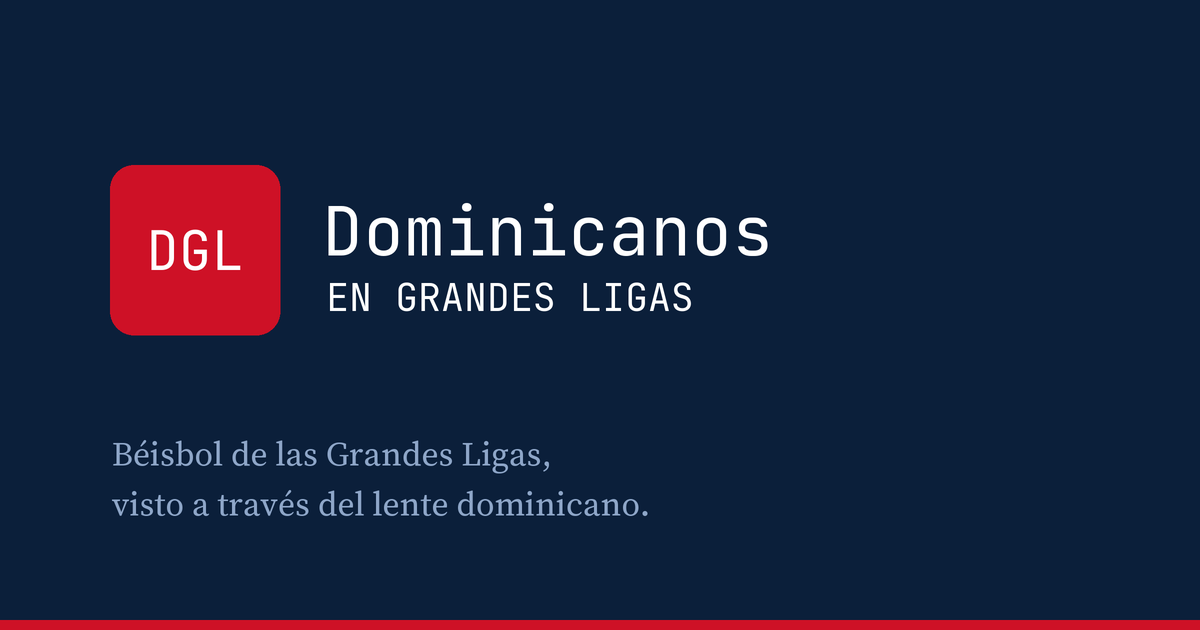
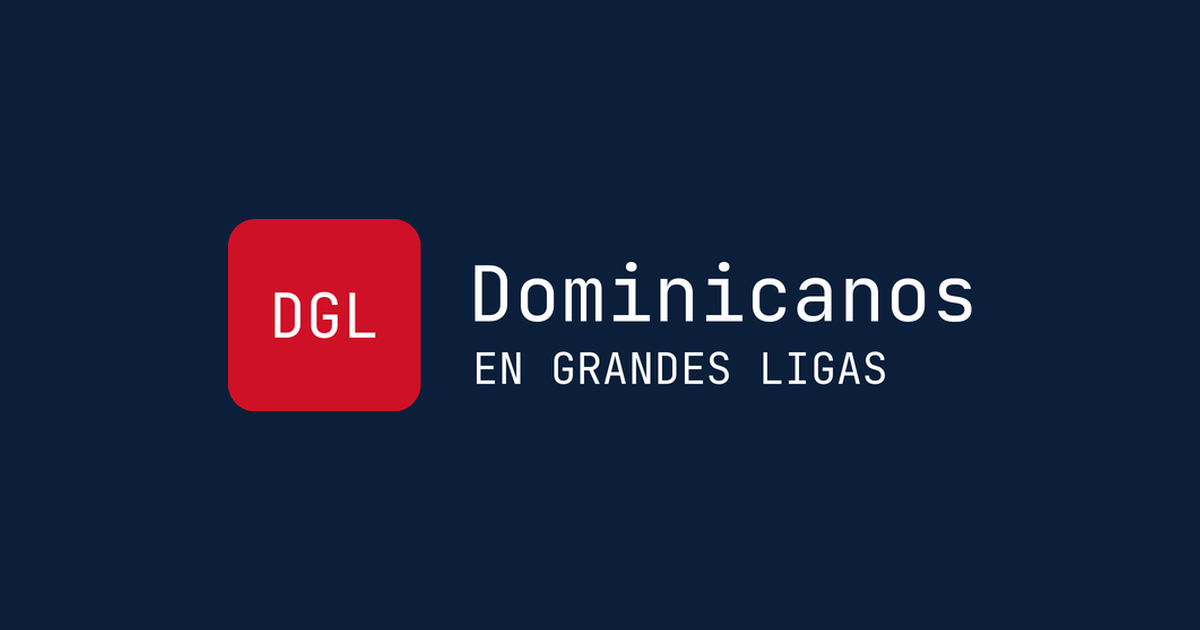
fix(og): la lámina de compartir se queda solo con el logotipo
Al pegar un enlace en Telegram, la lámina salía recargada: el logotipo, la
bajada del sitio en dos líneas y una barra roja al pie. El dueño la vio en
el previsualizador y tenía razón — la lámina se ve a un tercio de su tamaño
dentro de una tarjeta que YA repite el título, la descripción y el dominio
en texto, así que todo lo que ella escriba compite con eso o lo duplica.

Con el logotipo solo, la tarjeta reparte el trabajo: la imagen dice de quién
es y el texto de al lado dice qué es. Es la misma lógica de las bandas de
las tarjetas de artículo: lo que se repite en cada pieza es fondo, no
cartel.

SE RECORTA, NO SE REDIBUJA. Las fuentes del sitio están vendorizadas en
woff2 y Pillow no las lee; redibujar con otras daría un logotipo parecido
pero distinto, que es peor que no tocarlo. Recortando los mismos píxeles, la
tipografía es exactamente la misma.

La lámina completa queda guardada como fuente en static_data/graficos/ y el
script lee de ahí y escribe en static/. Con origen y destino en el mismo
archivo, correrlo dos veces recortaría lo ya recortado y el logotipo se iría
comiendo a sí mismo sin que ningún error lo dijera.

Y el script existe, que antes no: esta lámina se había hecho a mano en una
sesión y no había forma de reproducirla.

diff --git a/static_data/scripts/hacer_og_default.py b/static_data/scripts/hacer_og_default.py
@@ -1,0 +1,74 @@
+"""La imagen que sale al compartir un enlace del sitio sin foto propia (`static/img/og-default.png`).
+
+QUÉ ES Y DÓNDE SE VE
+--------------------
+Es la lámina de Open Graph: lo que dibuja WhatsApp, Telegram, Facebook o X cuando alguien pega un
+enlace de un artículo que no tiene imagen. Sin ella el enlace sale como una línea de texto pelada, y
+un enlace sin lámina se comparte muchísimo menos.
+
+SOLO EL LOGOTIPO, POR DECISIÓN DEL DUEÑO (2026-07-28)
+------------------------------------------------------
+La versión anterior llevaba además la bajada del sitio en dos líneas y una barra roja al pie. Al
+verla en el previsualizador de Telegram el dueño la encontró recargada, y tenía razón: **la lámina se
+ve a un tercio de su tamaño, dentro de una tarjeta que YA repite el título, la descripción y el
+dominio en texto**. Todo lo que la lámina escriba compite con eso o lo duplica.
+
+Con el logotipo solo, la tarjeta reparte el trabajo: la imagen dice de quién es, y el texto de al lado
+dice qué es. Es la misma lógica que las bandas de las tarjetas de artículo — lo que se repite en cada
+pieza tiene que ser fondo, no cartel.
+
+POR QUÉ SE RECORTA EN VEZ DE DIBUJARSE
+---------------------------------------
+El logotipo lleva tipografía, y las fuentes del sitio están vendorizadas en `woff2`, que Pillow no
+sabe leer. Redibujarlo pediría convertir las fuentes o instalar otras, y **otras no serían las del
+sitio**: el logotipo saldría parecido pero distinto, que es peor que no tocarlo.
+
+Así que se recorta el bloque de la lámina anterior y se recentra. La tipografía queda EXACTAMENTE la
+misma porque son los mismos píxeles.
+
+La contrapartida, dicha para que nadie se lleve una sorpresa: **esto depende de la lámina anterior**.
+Si algún día cambia el logotipo, este script no sirve — hay que rehacer la lámina desde el diseño y
+volver a fijar las coordenadas de abajo. No es un generador, es una edición reproducible.
+"""
+
+from pathlib import Path
+
+from PIL import Image
+
+# La lámina COMPLETA se guarda aparte y es la fuente; la servida es la salida. Separados a propósito:
+# con origen y destino en el mismo archivo, correr esto dos veces recortaría lo ya recortado y el
+# logotipo se iría comiendo a sí mismo sin que ningún error lo dijera.
+ORIGEN = Path("/app/static_data/graficos/og-lamina-original.png")
+DESTINO = Path("/app/static/img/og-default.png")
+
+# El recuadro del logotipo dentro de la lámina anterior, medido sobre los píxeles y no a ojo: es el
+# rectángulo mínimo que contiene todo lo que no es fondo entre las filas 100 y 380.
+LOGOTIPO = (110, 165, 768, 335)
+
+MEDIDA = (1200, 630)  # lo que piden Open Graph y Twitter; también es la proporción 1.91:1 de WhatsApp
+NAVY = (11, 31, 58)  # --dgl-navy, el mismo de la cabecera y el pie
+
+# Cuánto del ancho ocupa el logotipo. A 0.62 queda holgado sin perderse: por debajo de la mitad se lee
+# pequeño en el previsualizador de WhatsApp, que es donde más se va a ver, y por encima de 0.7 empieza
+# a parecer que no cupo.
+PROPORCION = 0.62
+
+
+def main() -> None:
+    original = Image.open(ORIGEN).convert("RGB")
+    logotipo = original.crop(LOGOTIPO)
+
+    # Se escala por ANCHO y el alto sale solo, para no deformarlo. `LANCZOS` porque acá se AMPLÍA, y
+    # ampliar con el remuestreo por defecto deja los bordes de las letras dentados.
+    ancho = int(MEDIDA[0] * PROPORCION)
+    alto = round(logotipo.height * ancho / logotipo.width)
+    logotipo = logotipo.resize((ancho, alto), Image.Resampling.LANCZOS)
+
+    lienzo = Image.new("RGB", MEDIDA, NAVY)
+    lienzo.paste(logotipo, ((MEDIDA[0] - ancho) // 2, (MEDIDA[1] - alto) // 2))
+    lienzo.save(DESTINO, "PNG", optimize=True)
+    print(f"{DESTINO.name}: {MEDIDA[0]}x{MEDIDA[1]}  ({DESTINO.stat().st_size // 1024} KB)")
+
+
+if __name__ == "__main__":
+    main()

diff --git a/docs/TODO.md b/docs/TODO.md
@@ -32,9 +32,6 @@ y guía decisiones. Pasó: al preguntar "¿qué queda pendiente?" recomendé pri
         `/articulos/` se dibujaba como el destacado.
       - **1.2026.7** — la analítica de Umami. **Hay que añadir sus dos variables al `.env` de
         producción**, o el sitio sale sin medir nada y sin decir una palabra al respecto.
-      - **El retrato del biobox**, que no es código: hace falta añadir
-        `- /srv/dglweb-datos/mugshots:/app/static/img/mugshots:ro` al stack de producción. Las fotos
-        chicas se ven y las grandes no porque solo las chicas viajan dentro de la imagen.
 
 - [x] **Verificar que el usuario de Postgres pueda `CREATE EXTENSION unaccent`.** **HECHO (2026-07-28).** La crea el SUPERUSUARIO en el script de inicialización de la instancia, no la aplicación: el sitio se conecta con un rol propio (`dglweb`) que no puede instalar extensiones, y no le hace falta. Ver `/srv/postgres/init/10-dglweb.sh` en el VPS. El buscador de jugadores depende de esa extensión —es lo que hace que «nunez» encuentre a Núñez, y sin ella la mitad del maestro es inalcanzable—. No va en `requirements.txt` porque no es un paquete de Python: vive en la base. La migración `players/0005_unaccent.py` la crea sola al correr `migrate`, pero `CREATE EXTENSION` pide permisos elevados. En el Postgres actual funciona; en uno gestionado con usuario restringido, `migrate` fallaría ahí. **Comprobarlo antes de migrar**, no después.
 
